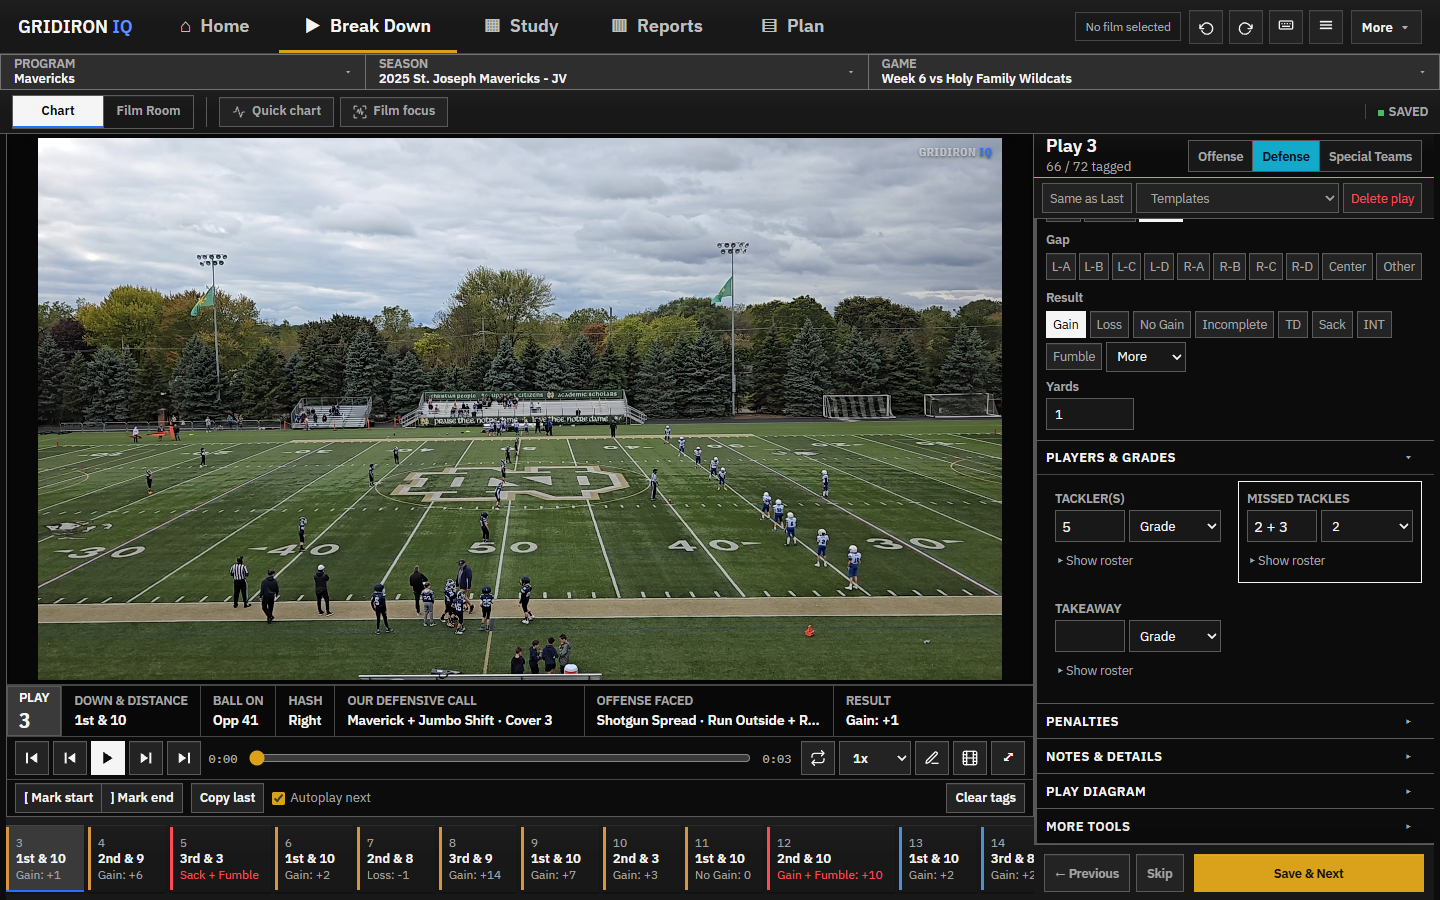
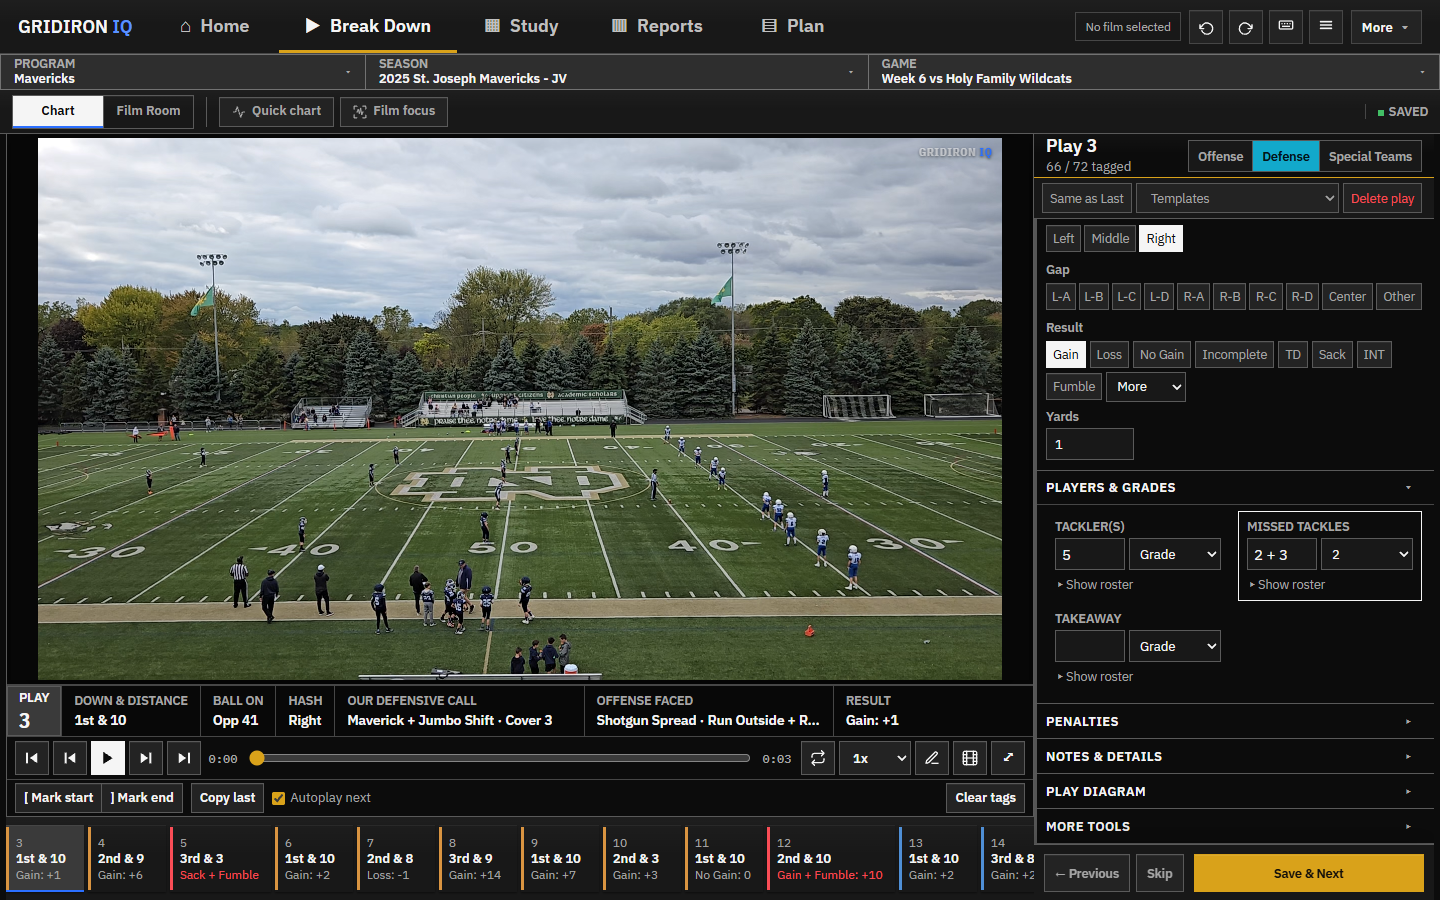
design: missed tackles comp, tight spacing for collapsed player rows
Coach revision (design-comps/missed-tackles-2026-10-06/RATIONALE.md): on
a fine pointer, player rows get 6px vertical padding, a 20px Show roster
link and a 2px row gap, so a collapsed row is 88px instead of 102px.
Coarse pointers keep 44px targets.

Changed region(s): [[0.7188, 0.2489, 1.0, 0.7778]]

diff --git a/design-comps/missed-tackles-2026-10-06/RATIONALE.md b/design-comps/missed-tackles-2026-10-06/RATIONALE.md
@@ -35,6 +35,14 @@ The label is "Missed Tackles" on every unit; the unit says whose miss it is.
 The count stays independent of the players picked: a count without names is
 allowed, and one player may miss more than once.
 
+## Collapsed spacing (coach, 2026-10-07)
+
+`defense-collapsed-1440x900.png`: with every roster picker collapsed the rows sit
+tight. On a fine pointer each player row has 6px vertical padding (was 8px),
+the Show roster link is 20px tall (was 28px) and rows are 2px apart (was 8px),
+so a collapsed row is 88px instead of 102px. Coarse pointers keep 44px targets.
+This applies to every player row in the deck, not only Missed Tackles.
+
 ## Not shown, built with it
 
 - Study: a Missed Tackles dimension (the count, unit-split, film-linked, with
